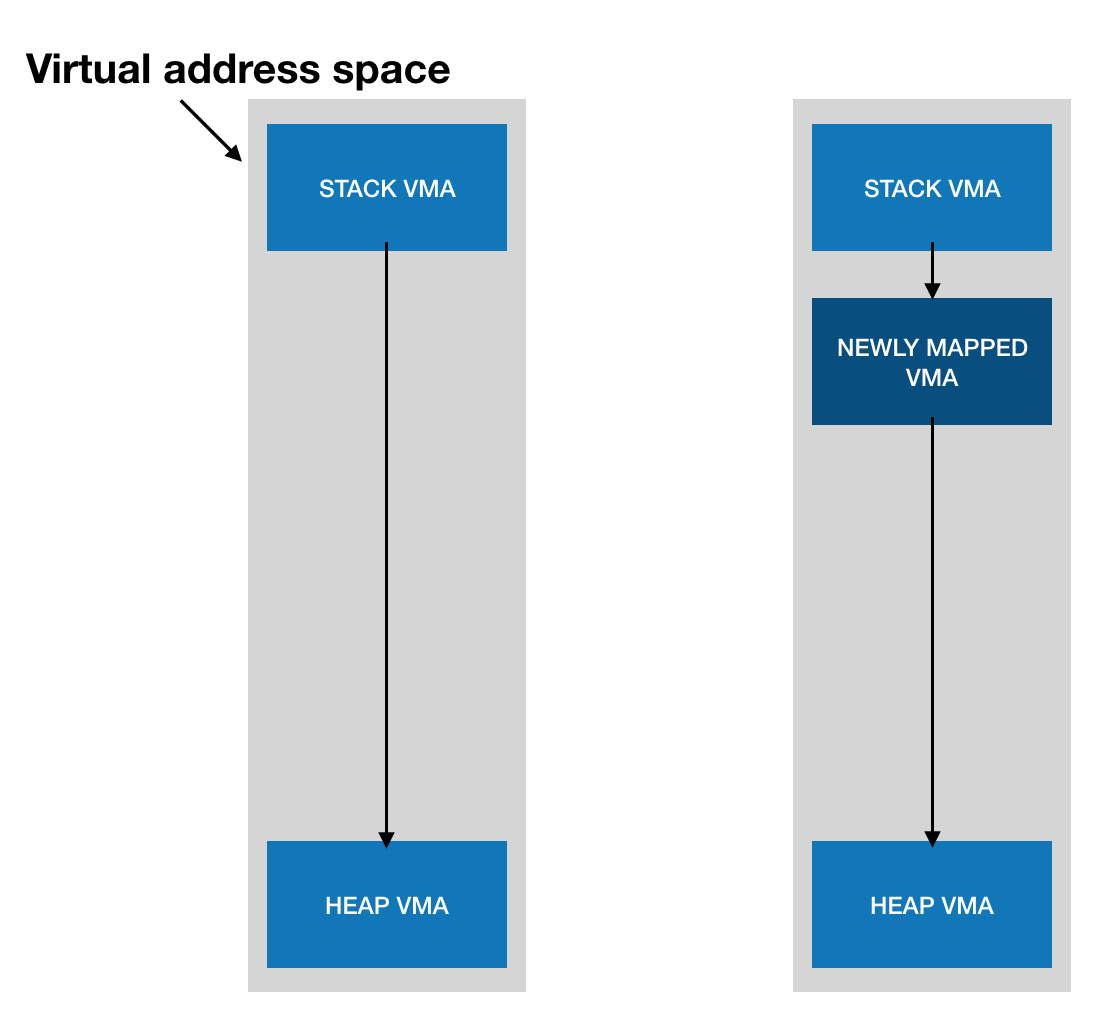
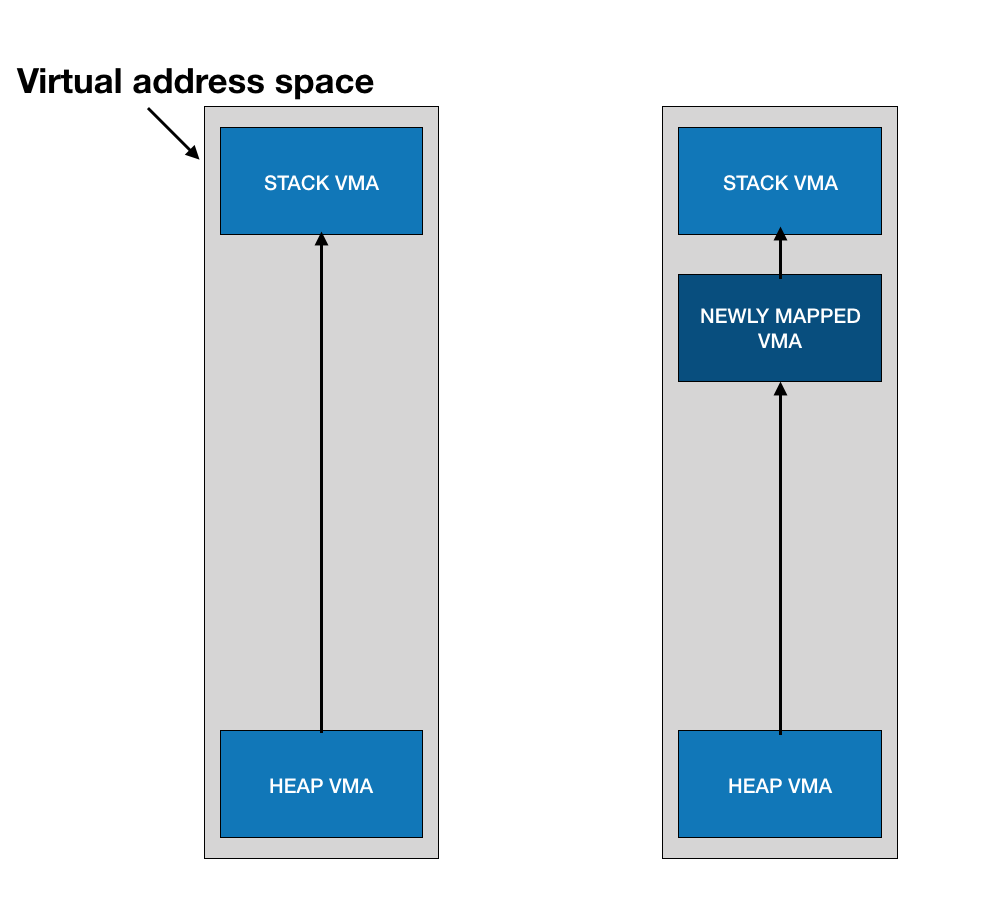
Doc clarifications

Changed region(s): [[0.0, 0.0308, 0.498, 0.9846], [0.6536, 0.0923, 0.9649, 0.9846]]

diff --git a/_docs/mapping_memory.md b/_docs/mapping_memory.md
@@ -1,3 +1,4 @@
+
 ---
 layout: doc
 title: "Mapping Memory"
@@ -10,11 +11,9 @@ submissions:
 learning_objectives:
   - Memory Mapped Files
   - Shared/Private Pages
-  - Kernel Memory Management
   - Virtual Memory
 wikibook:
   - "File System, Part 6: Memory mapped files and Shared memory"
----
 
 ## Quizizz
 
@@ -54,6 +53,14 @@ Before starting, you should go through all the provided header files and make su
 
 Good luck!
 
+# The Current Process
+
+Inside of `kernel.h`, you will find the global `struct process *current`. This
+is the currently running process. All system calls must rely on this pointer
+in order to retrieve the right context for searching through VMAs. The
+pointer is reset to a new process using 
+`void context_switch(struct process *)`, also in `kernel.h`. You do not have to
+worry about this, however.
 
 # Virtual Memory and Processes
 
@@ -64,14 +71,14 @@ struct process {
   uint32_t pid;
   struct vm_area *area_list;   // sorted linked list of all virtual memory areas
   page_directory *paging_directory;  // process global page directory 
-  vm_area *text_section;   // text segment region
-  vm_area *data_section;   // data segment region
-  vm_area *heap_section;   // heap segment region
-  vm_area *stack_section;  // stack segment region
+  vm_area *text_segment;   // text segment region
+  vm_area *data_segment;   // data segment region
+  vm_area *heap_segment;   // heap segment region
+  vm_area *stack_segment;  // stack segment region
 }
 ```
 
-As the process struct shows above, the stack, heap, text segment, and data segment have their own virtual memory areas. Every virtual memory area in a process is stored in the sorted linked list `area_list`. The virtual memory area struct in turn looks like this:
+As the process struct shows above, the stack, heap, text segment, and data segment have their own virtual memory areas. Every virtual memory area in a process is stored in the sorted linked list `area_list`. The list is sorted in terms of virtual address, so the text segment comes before the data segment, the heap segment before the stack segment, etc. The virtual memory area struct in turn looks like this:
 
 ```
 struct vm_area{
@@ -109,13 +116,13 @@ struct vm_area{
 
 Note that `area_prev` is a pointer to a pointer. It points to the `area_next` of the previous VMA. So essentially, the linked list looks like this:
 
-![vmaLinkedList](/images/vma_linked_list.png)
+![vma-linked-list](/images/vma-linked-list.png)
 
 We provide you with macros to handle the addition and deletion of a node from this linked list. These can be found in `list.h`. You are strongly encouraged to read the usage examples provided in the comments.
 
 Virtual memory also allows the kernel to map other resources to a region of a process' address space, like a memory-mapped file. The `file` pointer in the vm_area struct points to a `struct mapped_file`, if any. The `page_offset` will represent the page aligned offset within a file, i.e., the start of the region in a file which this VMA represents. The following illustration depicts this. 
 
-![vmaFileMapping](/images/file_offset_length.png)
+![vma-file-mapping](/images/file-offset-length)
 
 The `mapped_file` struct looks like this:
 
@@ -125,7 +132,7 @@ struct mapped_file{
   char *pathname;
   /* Linked list of all VMAs that have shared mappings to this file; */
   struct vm_area *shared_vma_list;
- _/* Reference count of all VMAs, shared and private, that map this file */
+  /* Reference count of all VMAs, shared and private, that map this file */
   uint32_t reference_count;
 };
 ```
@@ -139,7 +146,7 @@ We use Page Table Directories and Page Table Entries as they were used in Ideal 
 
 ## Physical Memory 
 
-![physicalMemory](/images/physical_memory.png)
+![physical-memory](/images/physical-memory.png)
 
 As seen in the figure above, physical memory (i.e RAM) is represented by an array of pages and page frames. The pages are represented as a struct as shown below, and are used as a way of storing meta-data for the corresponding page frame. For example, the `struct page` contains fields indicating whether a page frame is dirty, reserved for a page table or page directory, or corresponds to a page in a file on disk.
 
@@ -222,9 +229,23 @@ addr32 syscall_mmap(size_t length, int prot_flags, int flags,
 
 Unlike the real MMAP, we do not allow the user to specify where the new VMA is created (equivalent to setting `addr` to `NULL` in the true system call). We also take in a pathname rather than a file descriptor.
 
-MMAP by itself only sets up a VMA to _describe_ the mapping. Note that the new VMA should be placed as close as possible to the stack to prevent the heap from colliding with mapped memory regions (we assume the stack is of fixed size). The following illustration depicts this:
+MMAP by itself only sets up a VMA to _describe_ the mapping. The system call involves the following, at a high level:
+
+1. Make sure the arguments make sense. For example, `flags` cannot be `MAP_SHARED | MAP_PRIVATE`, for obvious reasons.
+2. Search through the linked list of VMAs between the heap and stack to find a large enough "gap" of virtual addresses to fit `length` bytes.  
+3. Create a new VMA using `struct vm_area *create_vm_area(struct process *, addr32 start_addr, addr32 end_addr)` and set all the proper protection flags and ownership flags.
+4. If the VMA isn't meant to be anonymous (i.e. `flags` does not contain `MAP_ANONYMOUS`), then use `struct mapped_file *obtain_mapped_file(char const *)` to get a handle for the file. Link together the VMA with the handle appropriately.
+5. Insert the VMA into the current process' `area_list` linked list at the proper location.
+6. Return the starting address of the new VMA.
+
+If an error occurs at any of these steps, you should clean up any resources you
+allocated so far (although this isn't tested) and return `MAP_FAILED`.
+
+Note that the new VMA should be placed as close as possible to the stack to prevent the heap from colliding with mapped memory regions (we assume the stack is of fixed size). The following illustration depicts this:
 
 ![physical-memory](images/mmap.png)
+
+## Page Faults
 
 The real data transfer occurs when a userspace application first attempts to access virtual memory mapped to a file, causing a page fault to occur. When a page fault occurs, the kernel finds out which VMA contains the virtual address that caused the fault. If none is found, then the kernel raises a segmentation fault. Otherwise, if it discovers that the `vm_area` has a shared mapping to a file, it first checks the page cache to see if this page in this file is already present in main memory. If not, it must allocate a fresh page frame, copy over file data from the file to this frame, add this new page to the page cache. In either case, it must modify the process page table to map the faulting virtual address to the correctly populated page frame. Much of the work of populating the page cache and the rest of main memory is therefore done by the page fault handler.
 
@@ -297,7 +318,7 @@ The general recipe is as follows:
 Note that, in order to swap out a page (in order to reuse the page frame for something else), we must find all PTEs that map to the page. This is essential because the processes using that frame must be "notified" that their virtual addresses no longer map to a valid frame in main memory. How can this be done? For private pages, we will rely on the `struct page->rmap` struct member, since there is only one PTE per private page. But for shared pages, we will employ a technique known as [object-based reverse-mapping](https://lwn.net/Articles/23732/).
 
 
-![physical-memory](/images/page_vma_mapping.png)
+![physical-memory](/images/reverse-mapping.png)
 
 
 In essense, a shared `page` struct holds a reference to a `mapped_file` struct, which in turn holds a linked list to all `vm_area` structs from all processes that having shared mappings to the file. When scanning through these VMAs, we can check to see if a given VMA actually maps to the given page. In particular, not every VMA that maps a file will map a given page in that file. If the VMA does indeed map the given page, we can compute the virtual address of that page in said VMA (which contains a reference to the process that owns it) and use it to obtain the right PTE from the process' page tables. Doing this for every VMA will give all the PTEs for all processes that need their Present and Dirty bits cleared.
